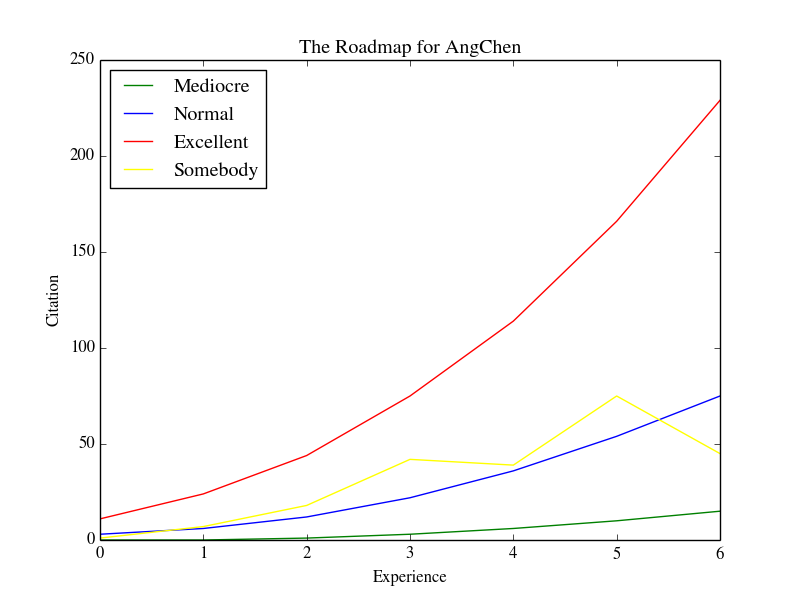
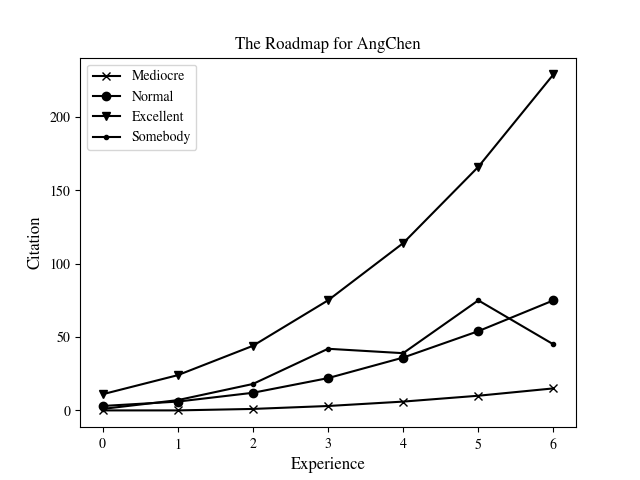
reformat the chunyipeng

diff --git a/h_index_with_experience.py b/h_index_with_experience.py
@@ -2,9 +2,22 @@ import numpy
 from citation_library import *
 from draw_hist import get_formatter, get_plt
 
-f_h_age = open("process_data/gs_h_age.txt", "r") # h-index vs experience
-f_g_age = open("process_data/gs_g_age.txt", "r") # g-index vs experience
-f_t_age = open("process_data/gs_t_age.txt", "r") # total vs experience
+import matplotlib
+matplotlib.use('TkAgg')
+import matplotlib.pyplot as plt
+
+import numpy as np
+import sys
+from matplotlib import ticker
+formatter = ticker.ScalarFormatter(useMathText=True)
+formatter.set_scientific(True) 
+formatter.set_powerlimits((-1,1)) 
+matplotlib.rcParams['mathtext.fontset'] = 'stix'
+matplotlib.rcParams['font.family'] = 'STIXGeneral'
+
+f_h_age = open("gs_h_age.txt", "r") # h-index vs experience
+f_g_age = open("gs_g_age.txt", "r") # g-index vs experience
+f_t_age = open("gs_t_age.txt", "r") # total vs experience
 
 all_h = f_h_age.read().split("\n"); all_h = all_h[:-1]
 all_g = f_g_age.read().split("\n"); all_g = all_g[:-1]
@@ -93,10 +106,10 @@ def see_a_scholar(name, index_name, index_list):
 	ax.set_ylabel(index_name, fontsize=12)
 	plt.title("The Roadmap for " + name)
 	lens = len(index_list)
-	plt.plot(t_20_with_year[0: lens], color='green', label = 'Mediocre')
-	plt.plot(t_50_with_year[0 : lens], color='blue', label = 'Normal')
-	plt.plot(t_80_with_year[0 : lens], color='red', label = 'Excellent')
-	plt.plot(index_list, color = 'yellow', label = 'Somebody')
+	plt.plot(t_20_with_year[0: lens], color='black', marker='x', label = 'Mediocre')
+	plt.plot(t_50_with_year[0 : lens], color='black', marker='o', label = 'Normal')
+	plt.plot(t_80_with_year[0 : lens], color='black',  marker='v', label = 'Excellent')
+	plt.plot(index_list, color='black', marker='.', label = 'Somebody')
 	plt.legend(loc='best')
 	plt.savefig("evaluate_" + name + ".png")
 	plt.close()
